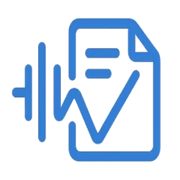
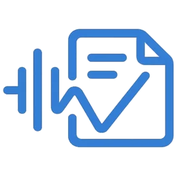
feat: add PWA support and dynamic API URLs for tunneling
- Add web app manifest with proper PWA icons (192, 512, maskable)
- Generate square icons from new branding for centered home screen display
- Make API URLs dynamic to support Cloudflare tunnels and remote access
- Add getWebSocketUrl() and getApiUrl() helpers for protocol-aware URLs
- Update Vite config: enable WebSocket proxy, allow any hostname
- Expand CSP to allow wss: and https: for tunnel compatibility
- Update version to v0.16.1

diff --git a/packages/frontend/index.html b/packages/frontend/index.html
@@ -3,11 +3,13 @@
   <head>
     <meta charset="UTF-8" />
     <meta name="viewport" content="width=device-width, initial-scale=1.0" />
-    <meta http-equiv="Content-Security-Policy" content="default-src 'self'; script-src 'self' 'unsafe-eval'; style-src 'self' 'unsafe-inline'; connect-src 'self' http://localhost:8000 http://127.0.0.1:8000 ws://localhost:8000 ws://127.0.0.1:8000 blob:; media-src 'self' http://localhost:8000 http://127.0.0.1:8000 blob:; img-src 'self' data: blob:; frame-src 'self' http://localhost:8000 http://127.0.0.1:8000;" />
+    <meta http-equiv="Content-Security-Policy" content="default-src 'self'; script-src 'self' 'unsafe-eval'; style-src 'self' 'unsafe-inline'; connect-src 'self' http://localhost:8000 http://127.0.0.1:8000 ws://localhost:8000 ws://127.0.0.1:8000 wss: https: blob:; media-src 'self' http://localhost:8000 http://127.0.0.1:8000 https: blob:; img-src 'self' data: blob:; frame-src 'self' http://localhost:8000 http://127.0.0.1:8000 https:;" />
     <link rel="icon" type="image/x-icon" href="/favicon.ico" />
     <link rel="icon" type="image/png" sizes="32x32" href="/favicon-32.png" />
     <link rel="icon" type="image/png" sizes="16x16" href="/favicon-16.png" />
     <link rel="apple-touch-icon" sizes="180x180" href="/apple-touch-icon.png" />
+    <link rel="manifest" href="/manifest.json" />
+    <meta name="theme-color" content="#000000" />
     <title>Verbatim Studio</title>
   </head>
   <body>

diff --git a/packages/frontend/src/pages/live/LiveTranscriptionPage.tsx b/packages/frontend/src/pages/live/LiveTranscriptionPage.tsx
@@ -1,4 +1,5 @@
 import { useState, useRef, useCallback, useEffect } from 'react';
+import { getWebSocketUrl, getApiUrl } from '@/lib/api';
 
 type ConnectionState = 'disconnected' | 'connecting' | 'connected' | 'recording';
 
@@ -87,7 +88,7 @@ export function LiveTranscriptionPage({ onNavigateToRecordings: _onNavigateToRec
       streamRef.current = stream;
 
       // Connect WebSocket
-      const wsUrl = `ws://127.0.0.1:8000/api/live/transcribe`;
+      const wsUrl = getWebSocketUrl('/api/live/transcribe');
       const ws = new WebSocket(wsUrl);
       wsRef.current = ws;
 
@@ -268,7 +269,7 @@ export function LiveTranscriptionPage({ onNavigateToRecordings: _onNavigateToRec
     // Discard session on server if exists
     if (sessionId) {
       try {
-        await fetch(`http://127.0.0.1:8000/api/live/session/${sessionId}`, {
+        await fetch(getApiUrl(`/api/live/session/${sessionId}`), {
           method: 'DELETE',
         });
       } catch {
@@ -298,7 +299,7 @@ export function LiveTranscriptionPage({ onNavigateToRecordings: _onNavigateToRec
     setError(null);
 
     try {
-      const response = await fetch('http://127.0.0.1:8000/api/live/save', {
+      const response = await fetch(getApiUrl('/api/live/save'), {
         method: 'POST',
         headers: { 'Content-Type': 'application/json' },
         body: JSON.stringify({

diff --git a/packages/frontend/src/version.ts b/packages/frontend/src/version.ts
@@ -1,3 +1,3 @@
 // This file is updated automatically by the release process
 // Run: npm run update-version or ./scripts/update-version.sh
-export const APP_VERSION = 'v0.15.3';
+export const APP_VERSION = 'v0.16.1';
